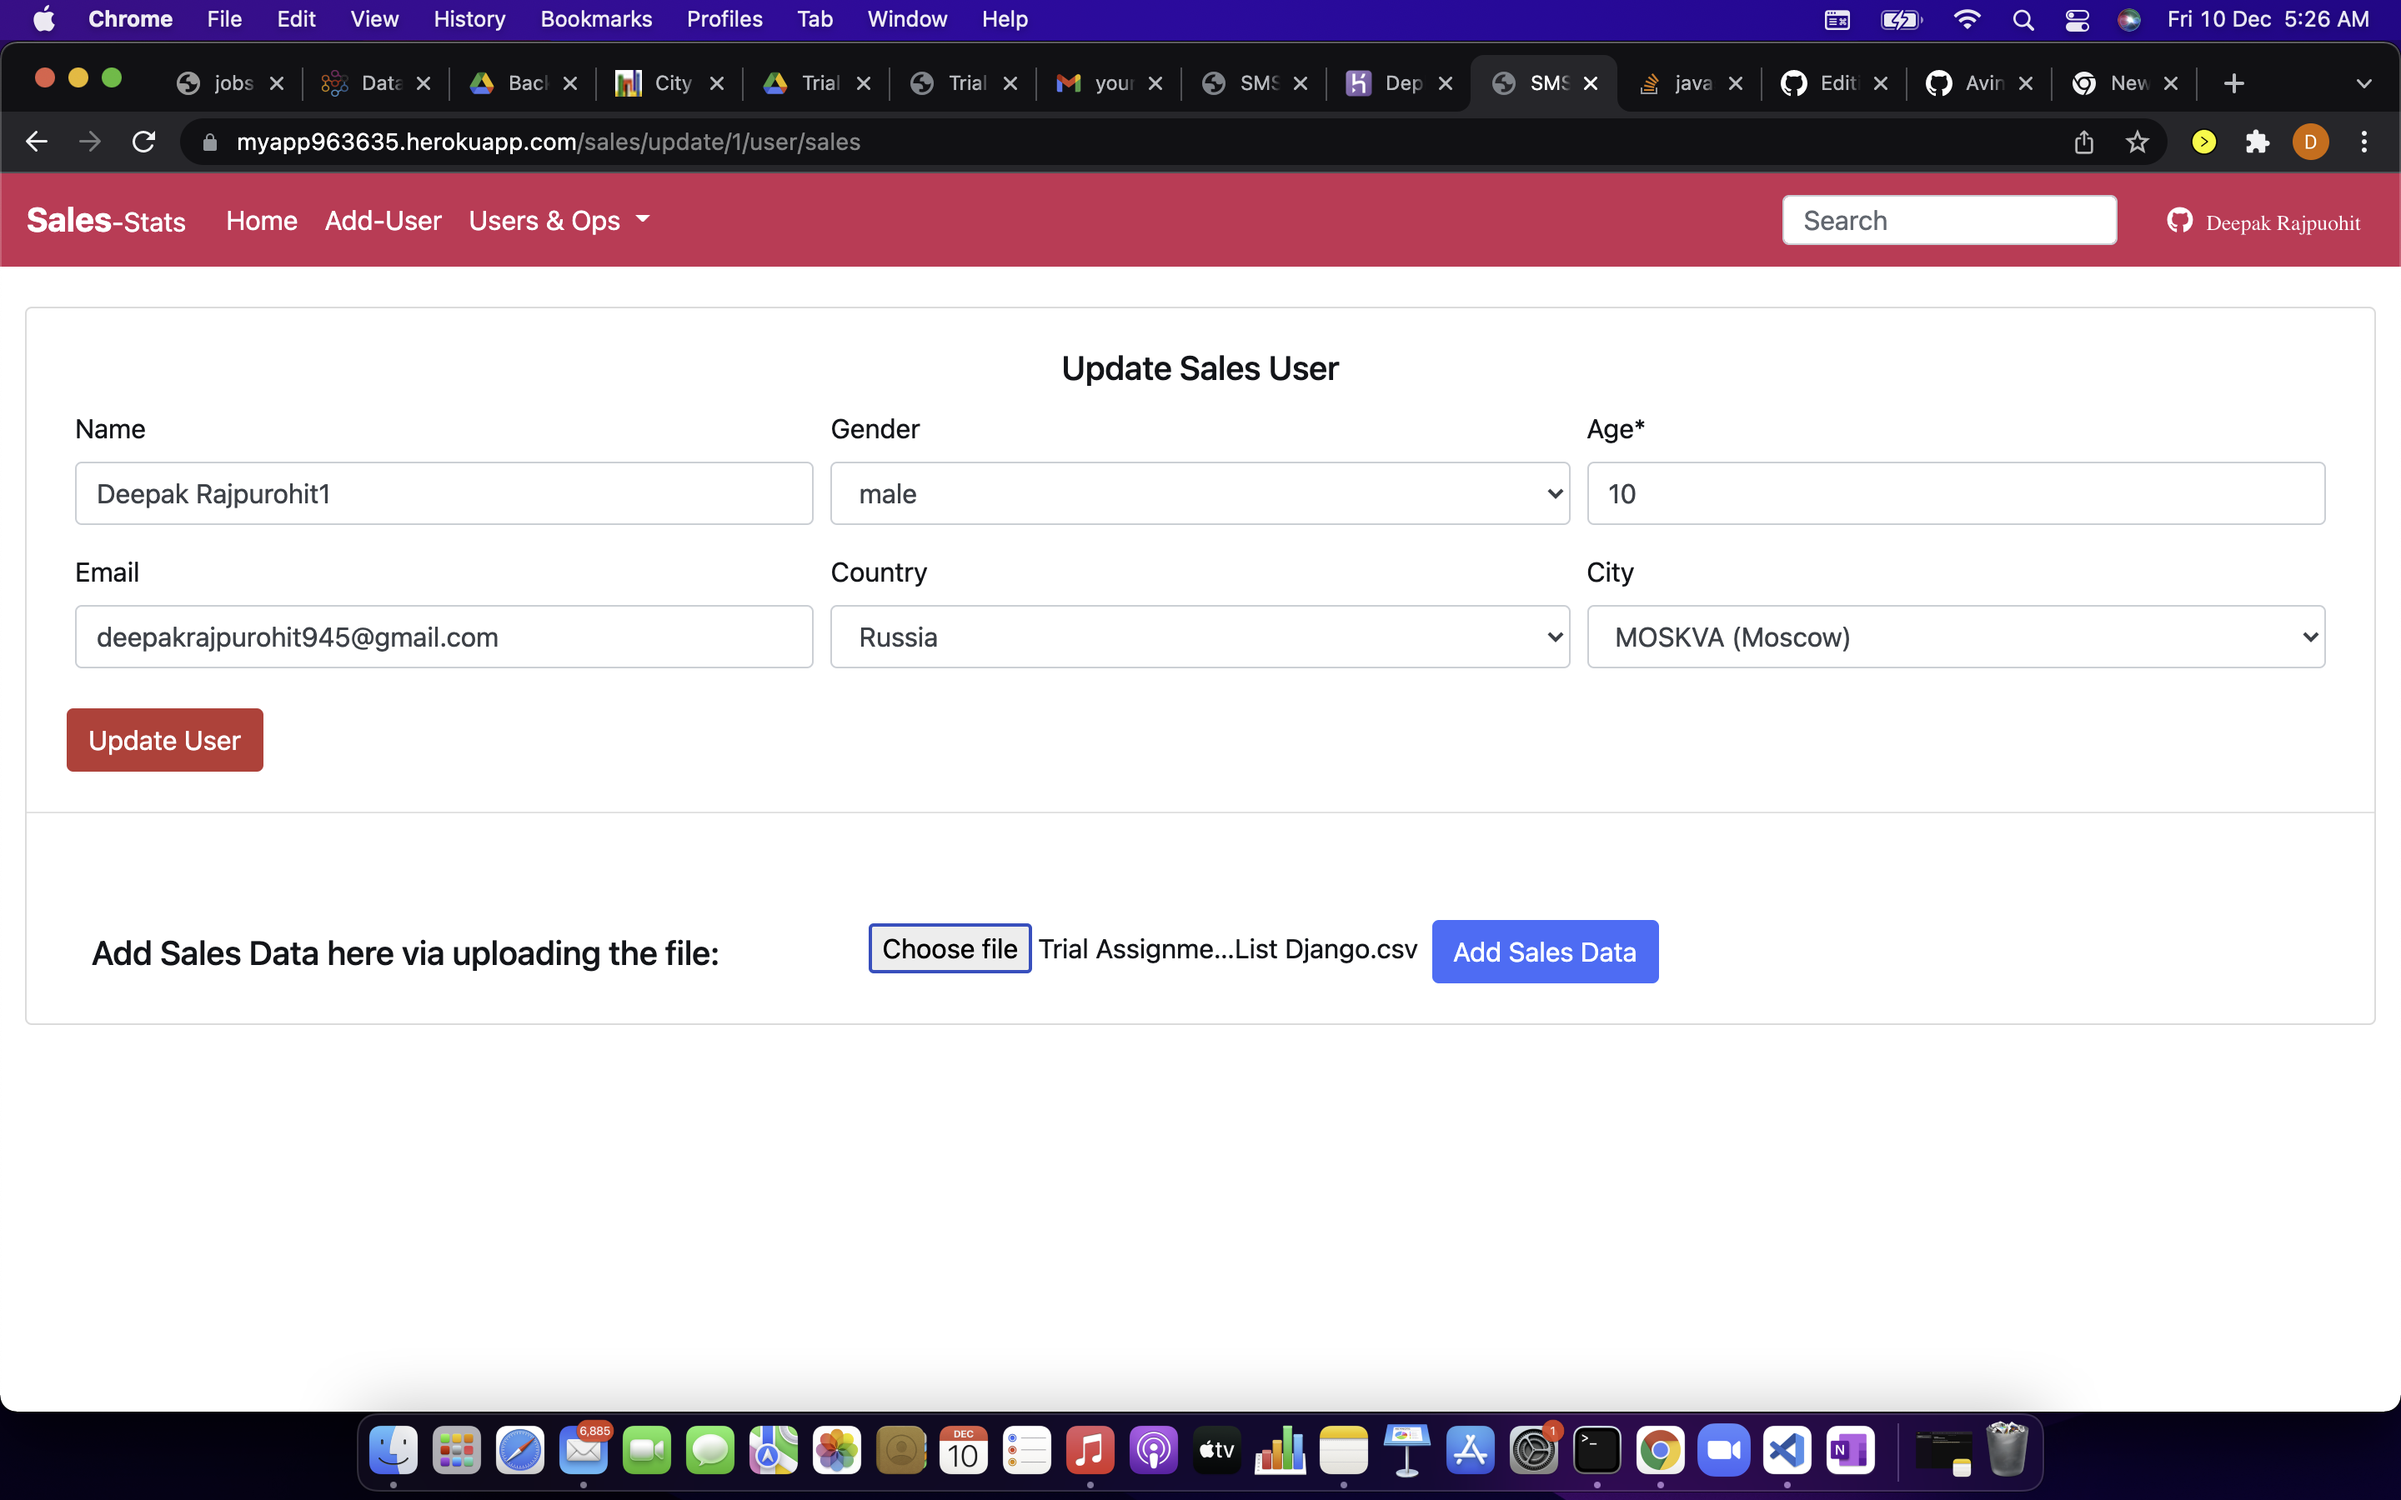
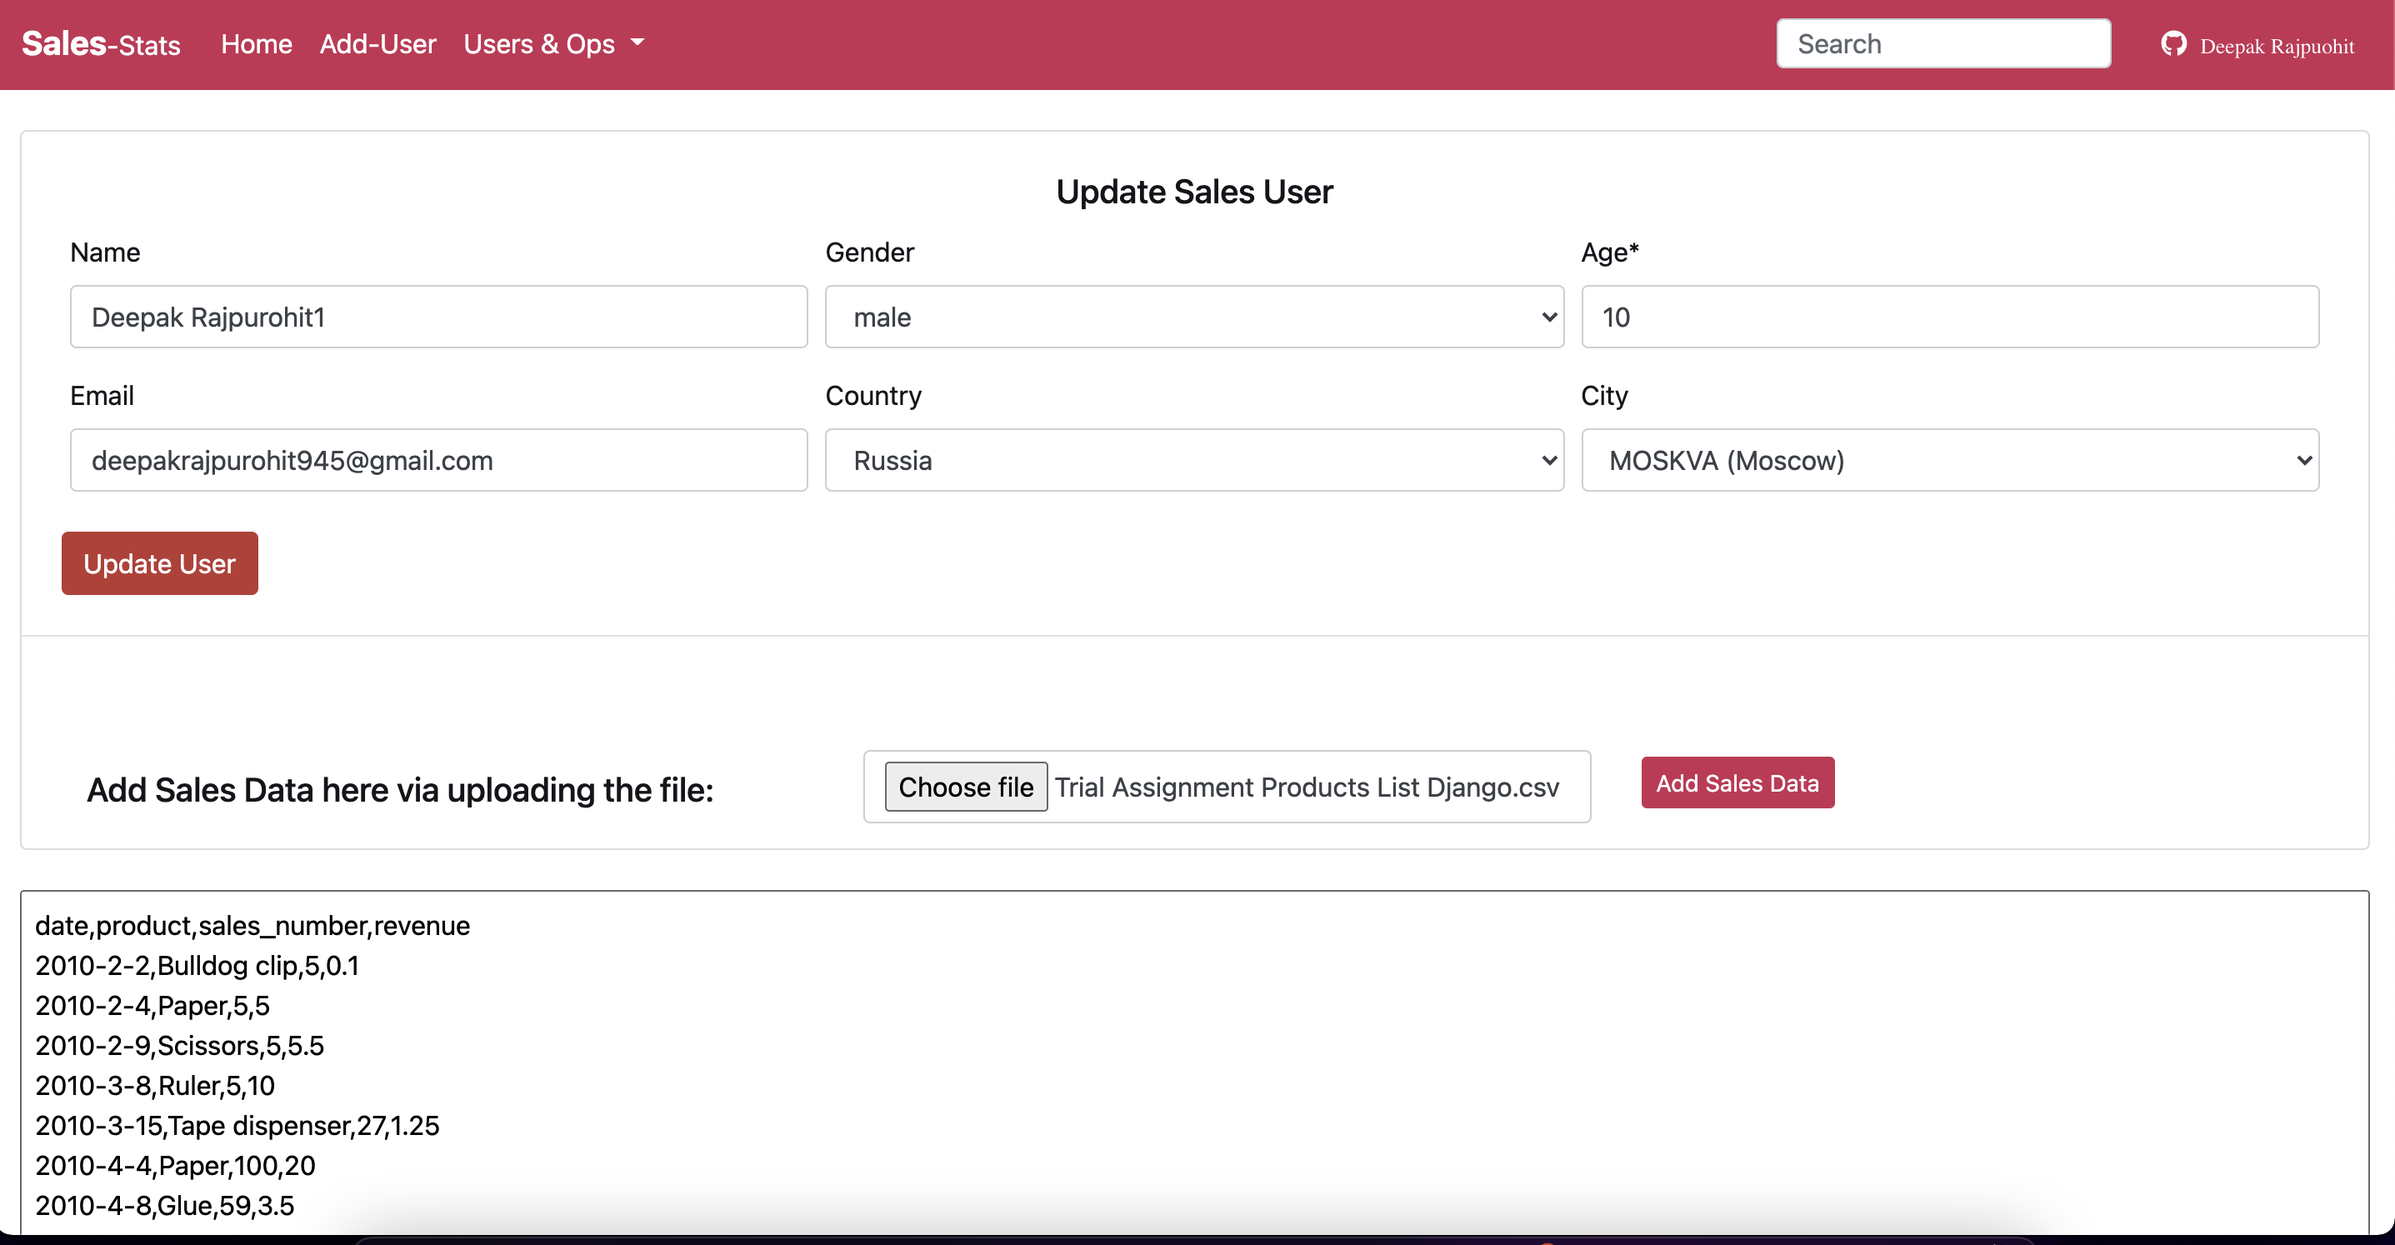
image responsive

diff --git a/sales_app/templates/index.html b/sales_app/templates/index.html
@@ -11,39 +11,39 @@
             <a style=" color: #e92063; " href="https://myapp963635.herokuapp.com/docs/ ">Swagger Docs..</a> or you can continue with the information about the application..
         </p>
 
+        <h5 class="text-center mt-4 ">1. Data analysis & Statistics...</h5>
+        <p class="text-center mt-1 ">Here you can see analysis of each user... <a style=" color: #e92063; " href=" ">See Analysis..</a></p>
+        <img class="rounded mx-auto d-block img-fluid " src="{% static 'img/stats.png' %} " alt=" " style="height: 450px; ">
 
-        <h5 class="text-center mt-2 ">1.  Add New Sales User...</h5>
-        <p class="text-center mt-1 ">For adding an sales user you can go to the  <a style=" color: #e92063; " href="https://myapp963635.herokuapp.com/api/v2/users/add/ ">Add User..</a></p>
-        <img class="rounded mx-auto d-block " src="{% static 'img/add_user.png' %} " alt=" " style="height: 450px; ">
+ 
 <hr>
 
         <h5 class="text-center mt-4 ">2.  Sales Users List...</h5>
         <p class="text-center mt-1 ">Here you can find the list of the sales users you can update the user info and add sales data...  <a style=" color: #e92063; " href="https://myapp963635.herokuapp.com/api/v2/users/all/ ">All Users..</a></p>
-        <img class="rounded mx-auto d-block " src="{% static 'img/user_list.png' %} " alt=" " style="height: 450px; ">
+        <img class="rounded mx-auto d-block img-fluid " src="{% static 'img/user_list.png' %} " alt=" " style="height: 450px; ">
 
 
         <hr>
 
         <h5 class="text-center mt-4 ">3.  Update User and Add Sales Data...</h5>
         <p class="text-center mt-1 ">Here You can update the user and add the sales data of corresponded sales person...  <a style=" color: #e92063; " href="# ">Update User & Add Sales..</a></p>
-        <img class="rounded mx-auto d-block " src="{% static 'img/update_user_upload_data.png' %} " alt=" " style="height: 450px; ">
+        <img class="rounded mx-auto d-block img-fluid " src="{% static 'img/update_user_upload_data.png' %} " alt=" " style="height: 450px; ">
 
         <hr>
 
 
-        <h5 class="text-center mt-4 ">4. Data analysis & Statistics...</h5>
-        <p class="text-center mt-1 ">Here you can see analysis of each user... <a style=" color: #e92063; " href=" ">See Analysis..</a></p>
-        <img class="rounded mx-auto d-block " src="{% static 'img/stats.png' %} " alt=" " style="height: 450px; ">
-
+        <h5 class="text-center mt-2 ">4.  Add New Sales User...</h5>
+        <p class="text-center mt-1 ">For adding an sales user you can go to the  <a style=" color: #e92063; " href="https://myapp963635.herokuapp.com/api/v2/users/add/ ">Add User..</a></p>
+        <img class="rounded mx-auto d-block img-fluid " src="{% static 'img/add_user.png' %} " alt=" " style="height: 450px; ">
 
 <hr>
-        <h5 class="text-center mt-4 ">4. User Apis...</h5>
+        <h5 class="text-center mt-4 ">5. User Apis...</h5>
         <p class="text-center mt-1 ">Here You can see the user related apis... <a style=" color: #e92063; " href="https://myapp963635.herokuapp.com/docs ">See User Apis..</a></p>
-        <img class="rounded mx-auto d-block " src="{% static 'img/user_apis.png' %} " alt=" " style="height: 250px; ">
+        <img class="rounded mx-auto d-block img-fluid " src="{% static 'img/user_apis.png' %} " alt=" " style="height: 250px; ">
 <hr>
-        <h5 class="text-center mt-4 ">4. Sales Apis...</h5>
+        <h5 class="text-center mt-4 ">6. Sales Apis...</h5>
         <p class="text-center mt-1 ">Here You can see the sales related apis... <a style=" color: #e92063; " href="https://myapp963635.herokuapp.com/docs ">See Sales Apis..</a></p>
-        <img class="rounded mx-auto d-block " src="{% static 'img/sales_apis.png' %} " alt=" " style="height: 250px; ">
+        <img class="rounded mx-auto d-block img-fluid " src="{% static 'img/sales_apis.png' %} " alt=" " style="height: 250px; ">
 
 
 

diff --git a/users/templates/list_users.html b/users/templates/list_users.html
@@ -1,11 +1,5 @@
 {% extends "base.html" %}{% load crispy_forms_tags %} {% block title%} List Users {% endblock title %} {% block content%}
-<link rel="stylesheet" href="https://stackpath.bootstrapcdn.com/bootstrap/4.5.2/css/bootstrap.min.css">
-<script src="https://stackpath.bootstrapcdn.com/bootstrap/4.5.2/js/bootstrap.min.js"></script>
-<script src="https://cdnjs.cloudflare.com/ajax/libs/popper.js/1.16.0/umd/popper.min.js "></script>
-<link rel="stylesheet " href="https://cdn.datatables.net/1.10.21/css/dataTables.bootstrap4.min.css ">
-<script src="https://cdn.datatables.net/1.10.21/js/jquery.dataTables.min.js ">
-</script>
-<script src="https://cdn.datatables.net/1.10.21/js/dataTables.bootstrap4.min.js ">
+
 </script>
 </head>
 
@@ -13,43 +7,40 @@
     <div class="mt-4">
         <h4 class="text-center">Users List & Actions</h4>
     </div>
-    <table id="myTable" class="table table-bordered mt-4" style="width:100% ">
-        <thead>
-            <tr>
+    <div class="table-responsive mt-4">
+        <table class="table mt-4">
+            <thead class="thead-light">
+                <tr>
+                    <th> Email </th>
+                    <th>User id</th>
+                    <th> Age </th>
+                    <th> Country</th>
+                    <th>City</th>
+                    <th>Update & Sales</th>
+                    <th>Statistics</th>
+                </tr>
+            </thead>
+            <tbody>
+                {% for u in users %}
+                <tr scope="row ">
+                    <td> {{u.email}}</td>
+                    <td> {{u.id}} </td>
+                    <td> {{u.age}} </td>
+                    <td> {{u.country.name}} </td>
+                    <td> {{u.city.name}} </td>
+                    <td class="text-center ">
 
-                <th> Email </th>
-                <th>User id</th>
-                <th> Age </th>
-                <th> Country</th>
-                <th>City</th>
-                <th>Update & Sales</th>
-                <th>Statistics</th>
-            </tr>
-        </thead>
-        <tbody>
-            {% for u in users %}
-            <tr>
-                <td> {{u.email}}</td>
-                <td> {{u.id}} </td>
-                <td> {{u.age}} </td>
-                <td> {{u.country.name}} </td>
-                <td> {{u.city.name}} </td>
-                <td class="text-center">
+                        <a href="{% url 'update-user-sales' u.id %} " class="btn btn-danger btn-sm ">Update</a>
+                    </td>
+                    <td class="text-center ">
 
-                    <a href="{% url 'update-user-sales' u.id %}" class="btn btn-danger btn-sm">Update</a>
-                </td>
-                <td class="text-center">
+                        <a href="{% url 'user-stats' u.id %} " class="btn btn-danger btn-sm ">Analysis</a>
+                    </td>
 
-                    <a href="{% url 'user-stats' u.id %}" class="btn btn-danger btn-sm">Analysis</a>
-                </td>
+                </tr>
+                {% endfor %}
+        </table>
+    </div>
 
-            </tr>
-            {% endfor %}
-    </table>
 
-    <script>
-        $(document).ready(function() {
-            $('#myTable').DataTable();
-        });
-    </script>
     {% endblock content %}

diff --git a/sales_app/templates/update_user.html b/sales_app/templates/update_user.html
@@ -34,15 +34,48 @@
 <form class="form mt-4" action="{% url 'update-user-sales' user_id%}" enctype="multipart/form-data" method="POST">
     {% csrf_token %}
     <div class="row ml-4 mt-4">
-        <div class="col-md-4 mt-2">
+        <div class="col-md-4 mt-3">
             <h5>Add Sales Data here via uploading the file: </h4>
         </div>
 
-        <div class="col-md-5 mb-4">
-            <input type="file" name='sales_file' accept=".csv" required>
-            <button type="submit" name='sales_submit' class="btn btn-primary">Add Sales Data</button>
+        <div class="col-md-4 mt-1">
+            <input type="file" id="fileUpload" class="form-control" name='sales_file' accept=".csv" required>
+        </div>
+        <div class="col-md-2 mb-4 mr-4 mt-2">
+            <button type="submit" name='sales_submit' style="background-color: #e92063; color:white" class="btn-sm btn">Add Sales Data</button>
+
         </div>
     </div>
 </form>
 </div>
+
+<textarea class="d-inline p-2 mt-4" style="width: 100%;" name="" id="texcv" cols="30" rows="10" placeholder="No Data Available for now when you will upload the csv file you can view that..."></textarea>
+
+
+<script type="text/javascript">
+    var file_upload = document.getElementById('fileUpload');
+    file_upload.onchange = function() {
+        var fileUpload = document.getElementById("fileUpload");
+        var regex = /^([a-zA-Z0-9\s_\\.\-:])+(.csv|.txt)$/;
+        if (regex.test(fileUpload.value.toLowerCase())) {
+            if (typeof(FileReader) != "undefined") {
+                var reader = new FileReader();
+                reader.onload = function(e) {
+                    var rows = e.target.result.split("\n");
+                    document.getElementById("texcv").value = "";
+                    for (var i = 0; i < rows.length; i++) {
+                        var cells = rows[i].split(",");
+                        document.getElementById("texcv").value += rows[i];
+                    }
+                }
+                reader.readAsText(fileUpload.files[0]);
+            } else {
+                alert("This browser does not support HTML5.");
+            }
+        } else {
+            alert("Please upload a valid CSV file.");
+        }
+    }
+</script>
+
 {% endblock content %}

diff --git a/sales_app/templates/base.html b/sales_app/templates/base.html
@@ -29,7 +29,10 @@
         <div class="collapse navbar-collapse" id="navbarSupportedContent">
             <ul class="navbar-nav mr-auto">
                 <li class="nav-item active">
-                    <a class="nav-link text-white" href="{% url 'index' %}">Home <span class="sr-only">(current)</span></a>
+                    <a class="nav-link text-white" href="{% url 'schema-swagger-ui' %}">Swagger <span class="sr-only">(current)</span></a>
+                </li>
+                <li class="nav-item">
+                    <a class="nav-link text-white" href="{% url 'schema-redoc' %}">Redoc</a>
                 </li>
                 <li class="nav-item">
                     <a class="nav-link text-white" href="{% url 'add-user' %}">Add-User</a>
@@ -44,7 +47,7 @@
 
                         <a class="dropdown-item" href="{% url 'add-user' %}">Add-User</a>
                         <div class="dropdown-divider"></div>
-                        <a class="dropdown-item" href="#">Something else here</a>
+                        <a class="dropdown-item" href="{% url 'schema-swagger-ui-download' %}">Download Swagger json</a>
                     </div>
                 </li>
 

diff --git a/project/urls.py b/project/urls.py
@@ -43,7 +43,7 @@ urlpatterns = [
                                  cache_timeout=0), name='schema-swagger-ui'),
 
     path('api/api.json/', schema_view.without_ui(cache_timeout=0),
-         name='schema-swagger-ui'),
+         name='schema-swagger-ui-download'),
     path('redoc/', schema_view.with_ui('redoc',
                                        cache_timeout=0), name='schema-redoc'),
 

diff --git a/users/views.py b/users/views.py
@@ -87,6 +87,7 @@ def add_user(request):
   return render(request, 'add_user.html', context)
 
 
+
 def list_users(request):
   """
   This view will give the list all sales users
